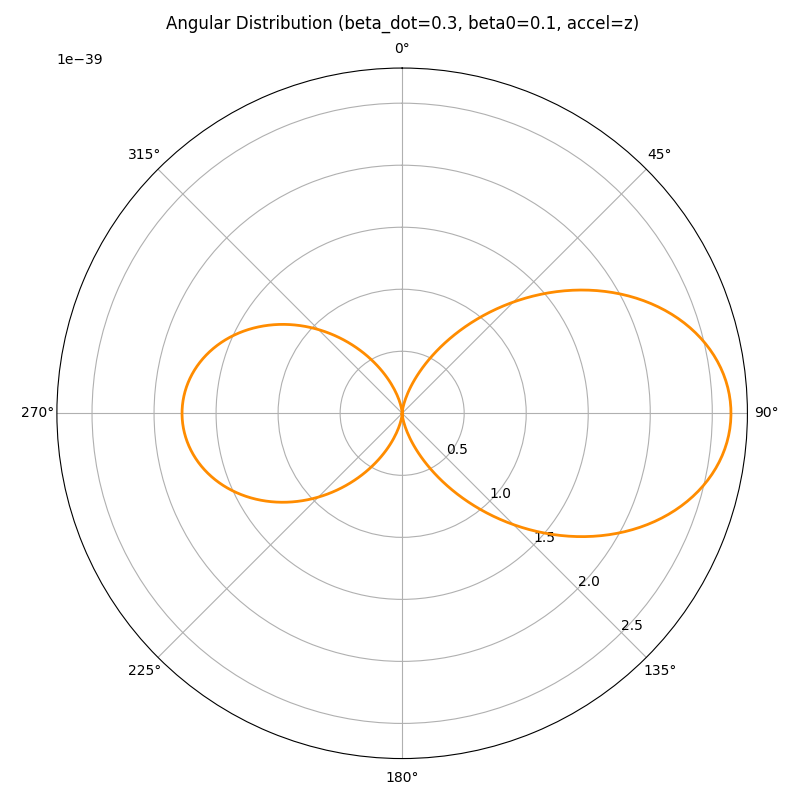
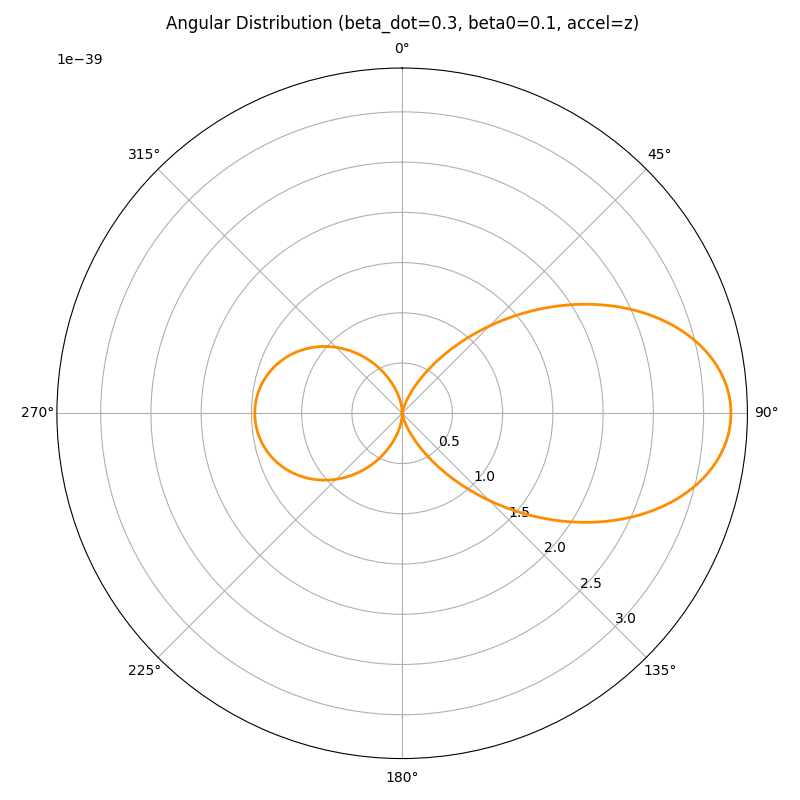
Question_3 for Assignment_2

diff --git a/Assignment_2/Question_3/src/Power_distribution.py b/Assignment_2/Question_3/src/Power_distribution.py
@@ -14,18 +14,12 @@ class AcceleratedCharge:
 
     def position(self, t):
         pos = self.r0.copy()
-        delta_vel = self.beta0 * c * t
-        delta_acc = 0.5 * self.beta_dot * c * t**2
-        axes = {'x':0, 'y':1, 'z':2}
-        pos[axes[self.vel_axis]] += delta_vel
-        pos[axes[self.accel_axis]] += delta_acc
         return pos
 
     def velocity(self, t):
         vel = np.zeros(3)
         axes = {'x':0, 'y':1, 'z':2}
         vel[axes[self.vel_axis]] = self.beta0 * c
-        vel[axes[self.accel_axis]] += self.beta_dot * c * t
         return vel / c
 
     def beta_dot_vec(self):
@@ -79,7 +73,7 @@ def angular_radiated_power(charge, t_obs, theta_vals, phi_vals=None):
     return np.array(dP)
 
 theta_vals = np.linspace(0, 2*pi, 300)
-t_obs_sample = 1e-13 
+t_obs_sample = 1e-19 
 q = 1e-19
 beta0_values = [0.1, 0.9, 0.99]
 cases = [(0.3, 'z', 'x'),
